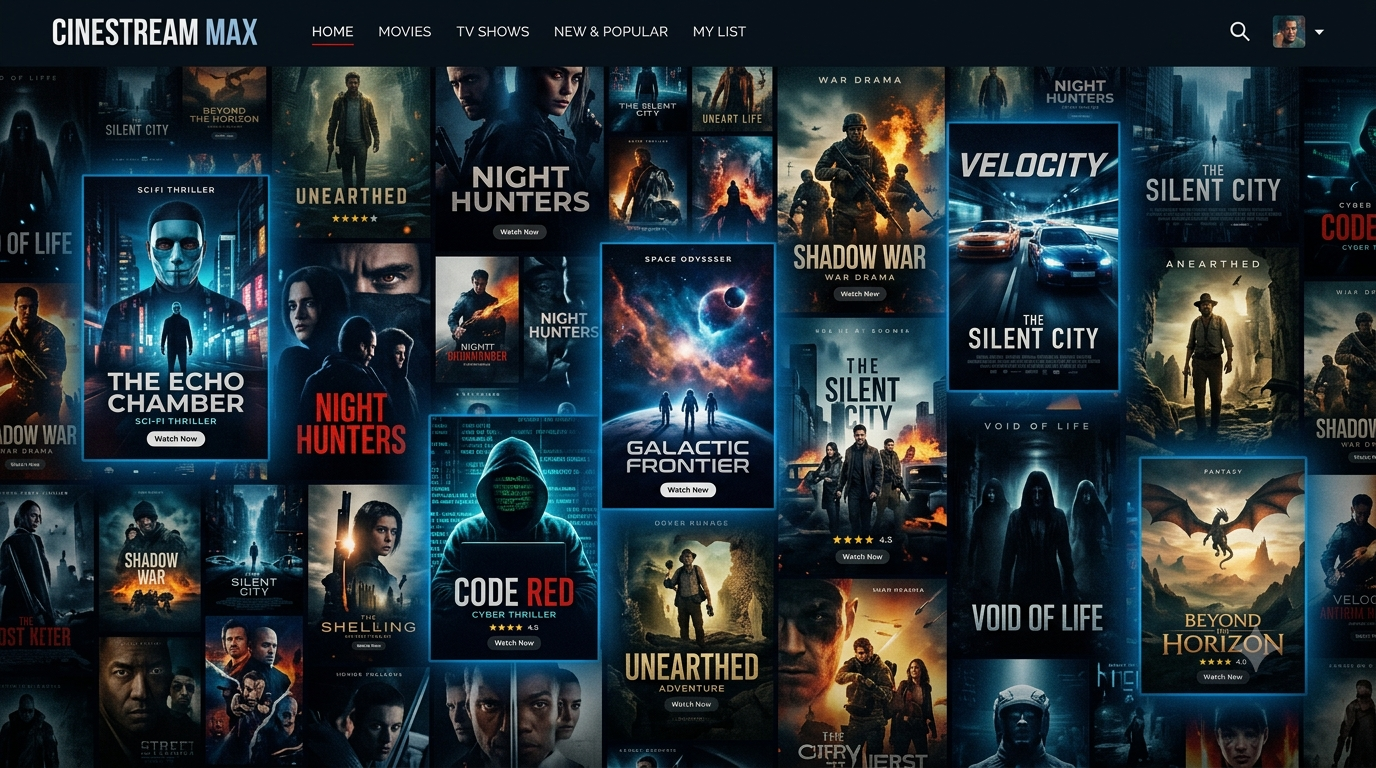
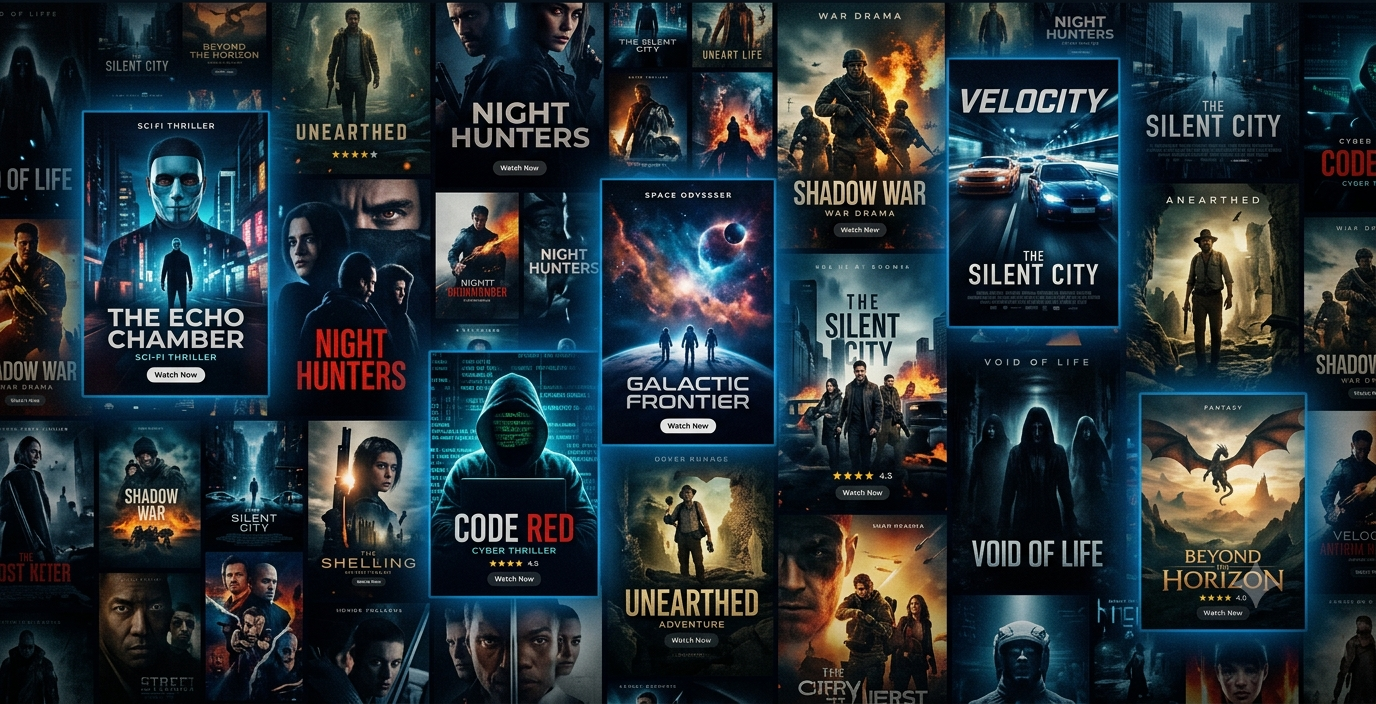
feat: add responsive SearchBar component

diff --git a/src/components/SearchBar.jsx b/src/components/SearchBar.jsx
@@ -1,0 +1,26 @@
+/*import { useState } from "react";*/
+
+function SearchBar({ placeholder, buttonText }) {
+  return (
+    <form className="mt-6 flex flex-col xs:flex-row items-center gap-4 w-full max-w-5xl">
+      <label htmlFor="search" className="sr-only">
+        Search by title, genre, or actor:
+      </label>
+      <input
+        type="search"
+        id="search"
+        autoComplete="off"
+        placeholder={placeholder}
+        className="w-full flex-1 rounded-md border border-border bg-background px-4 py-2.5 focus:outline-2 focus:outline-offset-2 focus:outline-accent-focus"
+      />
+      <button
+        type="submit"
+        className="btn-style focus-ring text-white rounded-md px-4 py-2.5 transition-colors duration-200 shrink-0 cursor-pointer"
+      >
+        {buttonText}
+      </button>
+    </form>
+  );
+}
+
+export default SearchBar;

diff --git a/src/components/Hero.jsx b/src/components/Hero.jsx
@@ -1,4 +1,5 @@
 import heroBackground from "../assets/images/heroBackground.png";
+import Searchbar from "./Searchbar";
 
 function Hero() {
   return (
@@ -15,9 +16,7 @@ function Hero() {
             Discover Movies From Around the World.
           </p>
         </div>
-        <form className="mt-6 flex flex-col sm:flex-row items-center gap-4 w-full">
-          Search Bar Placeholder
-        </form>
+        <Searchbar placeholder="Search for a movie..." buttonText="Search" />
       </div>
     </section>
   );

diff --git a/src/App.jsx b/src/App.jsx
@@ -1,11 +1,11 @@
 import Hero from "./components/Hero";
-import Navbar from "./components/Navbar";
+import NavBar from "./components/NavBar";
 
 
 function App() {
   return (
     <>
-      <Navbar />
+      <NavBar />
       <Hero />
     </>
   

diff --git a/src/components/Navbar.jsx b/src/components/Navbar.jsx
@@ -1,6 +1,6 @@
 import logo from '../assets/images/logo.jpg';
 
-function Navbar() {
+function NavBar() {
   return (
     <nav className="px-4 h-16 bg-navbar border-b border-border">
       <div className="flex items-center justify-between max-w-5xl mx-auto h-full px-4">
@@ -25,4 +25,4 @@ function Navbar() {
   );
 }
 
-export default Navbar;
+export default NavBar;

diff --git a/src/index.css b/src/index.css
@@ -30,6 +30,9 @@
   --radius-sm: 0.375rem;
   --radius-md: 0.5rem;
   --radius-lg: 0.75rem;
+
+  /* Breakpoints */
+  --breakpoint-xs: 450px;
 }
 
 @layer base {